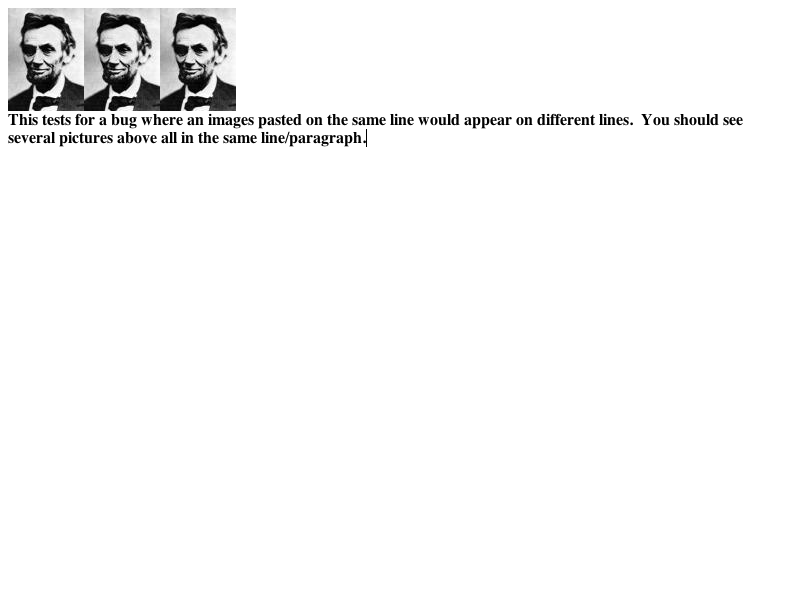
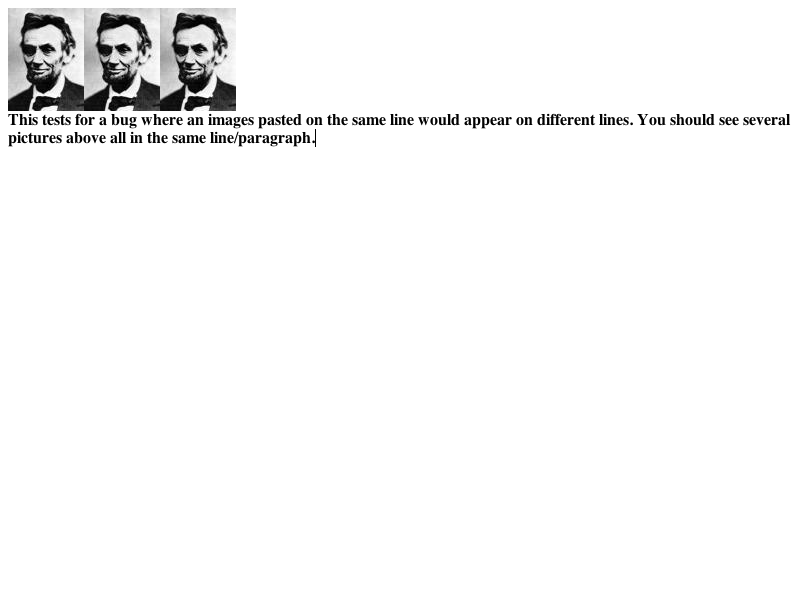
WebCore:
2009-06-23  Ryosuke Niwa  <rniwa@google.com>

        Reviewed by Justin Garcia.

        Undo the changeset 21212 to fix the regression bug 14062.
        The changeset 21212 attempted to fix rdar://problem/5002441.
        The changeset 21212 modified InsertTextCommand::input so as to convert
        all spaces in text to non-breaking spaces for rdar://problem/5002441.
        However, the bug was originally caused by rebalanceWhitespaceAt
        and this workaround introduced a regression bug 14062.
        Because rebalanceWhitespaceAt appears to behave correctly now,
        the workaround introduced in 21212 is no longer needed.

        Test: editing/inserting/space-after-removeformat.html

        * editing/InsertTextCommand.cpp:
        (WebCore::InsertTextCommand::input):

LayoutTests:

2009-06-23  Ryosuke Niwa  <rniwa@google.com>

        Reviewed by Justin Garcia.

        Undo the changeset 21212 to fix the regression bug 14062.
        The changeset 21212 attempted to fix rdar://problem/5002441.
        The changeset 21212 modified InsertTextCommand::input so as to convert
        all spaces in text to non-breaking spaces for rdar://problem/5002441.
        However, the bug was originally caused by rebalanceWhitespaceAt
        and this workaround introduced a regression bug 14062.
        Because rebalanceWhitespaceAt appears to behave correctly now,
        the workaround introduced in 21212 is no longer needed.
[…]

Changed region(s): [[0.0, 0.21, 0.4688, 0.24], [0.7812, 0.18, 1.0, 0.21]]

diff --git a/LayoutTests/editing/inserting/space-after-removeformat.html b/LayoutTests/editing/inserting/space-after-removeformat.html
@@ -1,0 +1,34 @@
+<script>
+if (window.layoutTestController) {
+    layoutTestController.dumpEditingCallbacks();
+    layoutTestController.dumpAsText();
+} 
+</script>
+<p>This is a test for execCommand("RemoveFormat").  You should see Some%20text before and after RemoveFormat is executed.  This test case is due to the WebKit bug 14062, regression (r21212).</p>
+<div id="div"><span id="test">Some text.</span></div>
+<p>Before: <span id="console1"></span></p>
+<p>After: <span id="console2"></span></p>
+
+<script>
+
+function log(message, k) {
+    var console = document.getElementById("console"+k);
+    var text = document.createTextNode(message);
+
+    console.appendChild(text);
+}
+
+var e = document.getElementById("test");
+var s = window.getSelection();
+
+log(escape(e.innerHTML),1);
+
+r = document.createRange();
+r.selectNode(e);
+s.addRange(r);
+document.designMode = 'on';
+document.execCommand("RemoveFormat", false, "");
+
+log(escape(e.innerHTML),2);
+
+</script>

diff --git a/WebCore/editing/InsertTextCommand.cpp b/WebCore/editing/InsertTextCommand.cpp
@@ -106,22 +106,14 @@ bool InsertTextCommand::performTrivialReplace(const String& text, bool selectIns
     return true;
 }
 
-void InsertTextCommand::input(const String& originalText, bool selectInsertedText)
+void InsertTextCommand::input(const String& text, bool selectInsertedText)
 {
-    String text = originalText;
     
     ASSERT(text.find('\n') == -1);
 
     if (endingSelection().isNone())
         return;
-        
-    if (RenderObject* renderer = endingSelection().start().node()->renderer())
-        if (renderer->style()->collapseWhiteSpace())
-            // Turn all spaces into non breaking spaces, to make sure that they are treated
-            // literally, and aren't collapsed after insertion. They will be rebalanced 
-            // (turned into a sequence of regular and non breaking spaces) below.
-            text.replace(' ', noBreakSpace);
-    
+
     // Delete the current selection.
     // FIXME: This delete operation blows away the typing style.
     if (endingSelection().isRange()) {
@@ -129,7 +121,7 @@ void InsertTextCommand::input(const String& originalText, bool selectInsertedTex
             return;
         deleteSelection(false, true, true, false);
     }
-    
+
     Position startPosition(endingSelection().start());
     
     Position placeholder;
@@ -184,7 +176,7 @@ void InsertTextCommand::input(const String& originalText, bool selectInsertedTex
         // The insertion may require adjusting adjacent whitespace, if it is present.
         rebalanceWhitespaceAt(endPosition);
         // Rebalancing on both sides isn't necessary if we've inserted a space.
-        if (originalText != " ") 
+        if (text != " ") 
             rebalanceWhitespaceAt(startPosition);
             
         m_charactersAdded += text.length();
